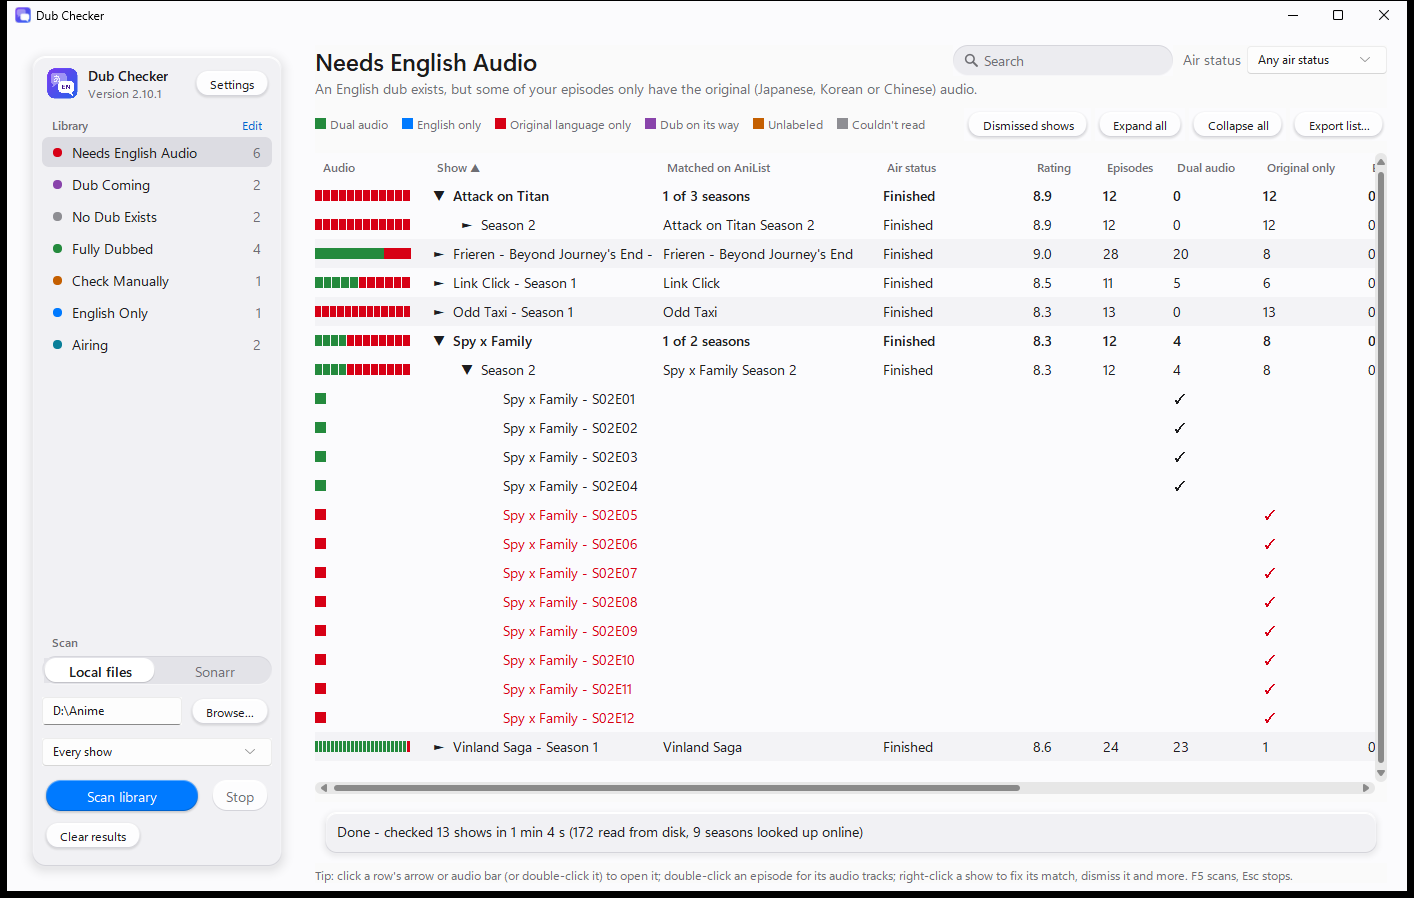
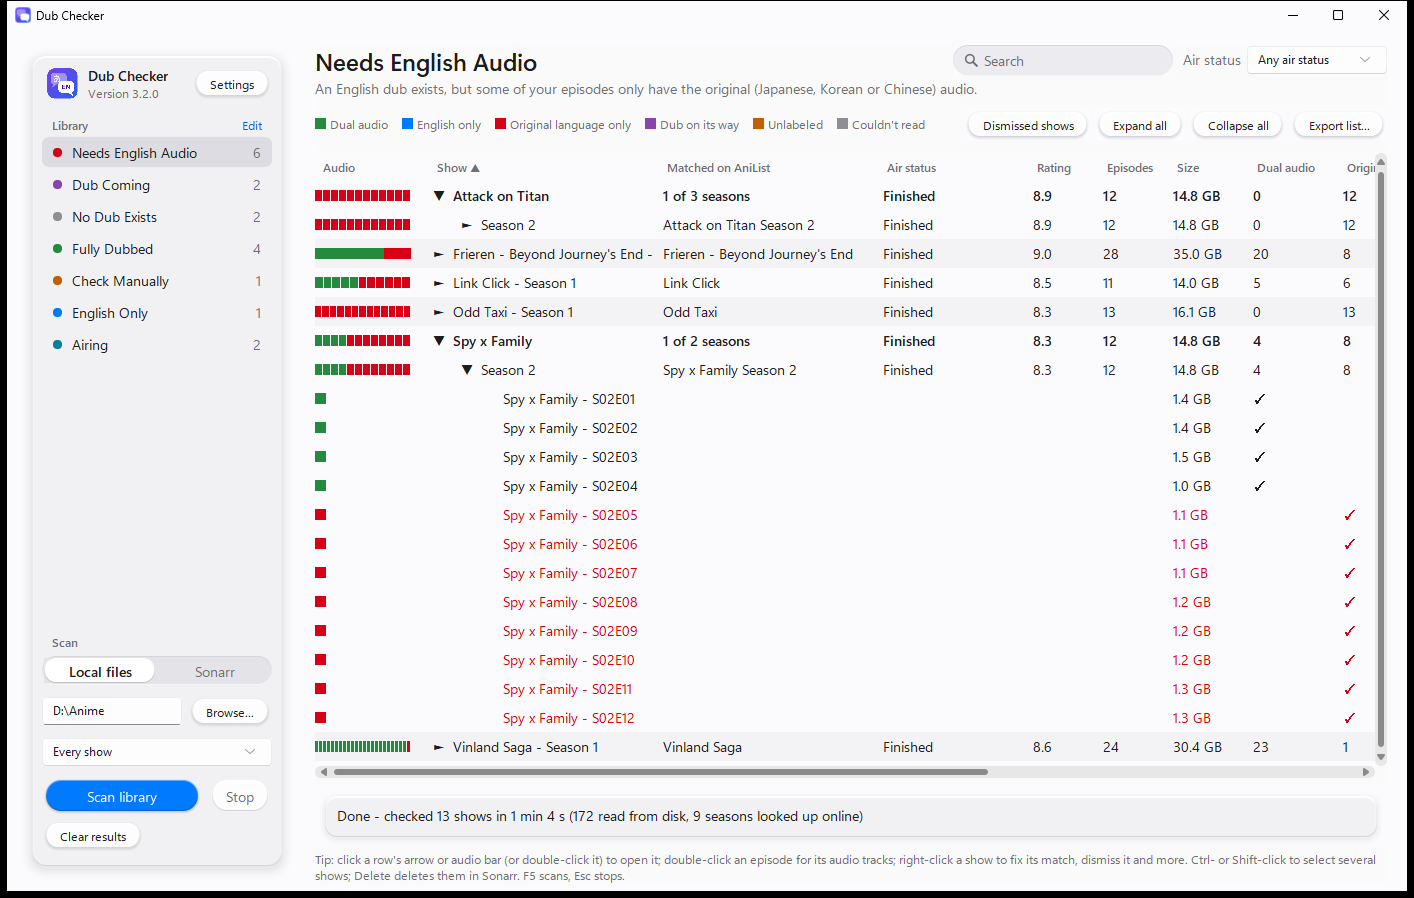
Refresh the screenshots and guides for 3.2.0
New screenshots with the Size column and the Delete from Sonarr window;
the README covers batched AniList lookups, scans waiting during a delete,
and Sonarr's own error explanations.

diff --git a/README.md b/README.md
@@ -85,7 +85,7 @@ when you click **Save**; **Cancel** (or Esc) forgets them.
 **Scanning on a schedule.** **Settings > Schedule** scans automatically every so many hours (24 is once a day) while Dub Checker is open. Minimised is fine.
 - Choose **Every show**, or one tab such as **Only Needs English Audio** to keep an eye on shows waiting for a dub.
 - The next scheduled scan is shown under the status line.
-- If a scan came due while Dub Checker was closed, it runs about a minute after you open it. It never interrupts a scan you started yourself.
+- If a scan came due while Dub Checker was closed, it runs about a minute after you open it. It never interrupts a scan you started yourself, and waits while Sonarr is deleting shows.
 - Problems are reported on the status line rather than in pop-ups, since nobody may be watching. Warnings also go to `logs/app.log`.
 
 While it scans, the panel shows which step it's on (for example "Step 2 of 3: Checking online whether English dubs exist") with a line explaining what that step does, then the progress of the step itself:
@@ -162,7 +162,7 @@ Choose where air status comes from in **Settings > General > Air status**:
 - **From AniList** (the default):
   - Shows that were looked up on AniList get it automatically.
   - Shows decided from your own files alone (a season with dual-audio episodes) normally skip AniList, so a last step called "Checking air status" looks them up too. Their group doesn't change, and seasons still missing English audio go first.
-  - The first scan takes longer, because AniList asks apps to pace their requests. After that, finished shows are remembered for 30 days and still-airing shows are checked again twice a day.
+  - The first scan takes longer, because AniList allows about 30 requests a minute. Dub Checker asks about several shows in each request (up to 10 searches or 8 shows' details), so it's still several times quicker than one at a time. After that, finished shows are remembered for 30 days and still-airing shows are checked again twice a day.
 - **From Sonarr:**
   - Dub Checker asks your Sonarr for each series' status and its calendar of upcoming episodes. That's two quick requests for the whole library, with no waiting on AniList.
   - Shows are matched to Sonarr by folder name (then title), so this also works after a local files scan, as long as Sonarr's address and API key are set.
@@ -211,6 +211,8 @@ Sonarr only replaces a file when it finds a release it rates higher under your q
 
 Select one or more shows or seasons (Ctrl-click or Shift-click for several), then press **Delete** or right-click and choose **Delete from Sonarr...**. You pick one of three ways, and nothing is chosen for you:
 
+![The Delete from Sonarr window: three selected shows with their sizes, the three ways to delete them, and how much space the chosen one frees](docs/screenshots/delete.png)
+
 | Choice | What happens |
 |---|---|
 | **Delete the shows entirely** | Sonarr removes the whole shows (even if you picked only some seasons) and deletes their folders from the disk. |
@@ -221,7 +223,8 @@ Select one or more shows or seasons (Ctrl-click or Shift-click for several), the
 - Each show in the window has its size, and the bottom says how much the choice you picked frees. Deleting a show entirely frees the whole show, not just the seasons you picked.
 - Files are deleted by Sonarr, from the disk, and can't be got back. The deleted shows and seasons then leave the list, and the status line says how much space was freed (as Sonarr counts it).
 - Shows are found in Sonarr by folder name, then title, so this works after a Local files scan too. Shows Sonarr doesn't have are skipped and named on the status line.
-- It needs Sonarr set up in Settings.
+- It needs Sonarr set up in Settings. While Sonarr is deleting, no scan starts (a scheduled one waits a minute and tries again).
+- If Sonarr refuses, its own explanation is shown, e.g. "Access to the path ... is denied."
 
 Works with Sonarr v3, v4 and v5 (API v3). Manual matches are shared between folder scans and Sonarr scans because both use the series folder name.
 
@@ -297,7 +300,7 @@ To reset, close the app and delete the files you want to start over with (or all
 - **AniList matching:** titles are fuzzy-matched against romaji, English, native titles and synonyms, adjusted for the year.
   - For Season 2 and later, Dub Checker follows AniList's sequel chain from Season 1 and also searches "Title Season N".
   - Specials always go to Check Manually.
-  - Requests are rate-limited and every answer, including "not found", is cached.
+  - Requests are paced by the limit AniList reports and batched (several searches or shows' details per request); every answer, including "not found", is cached.
 
 ## Development
 
